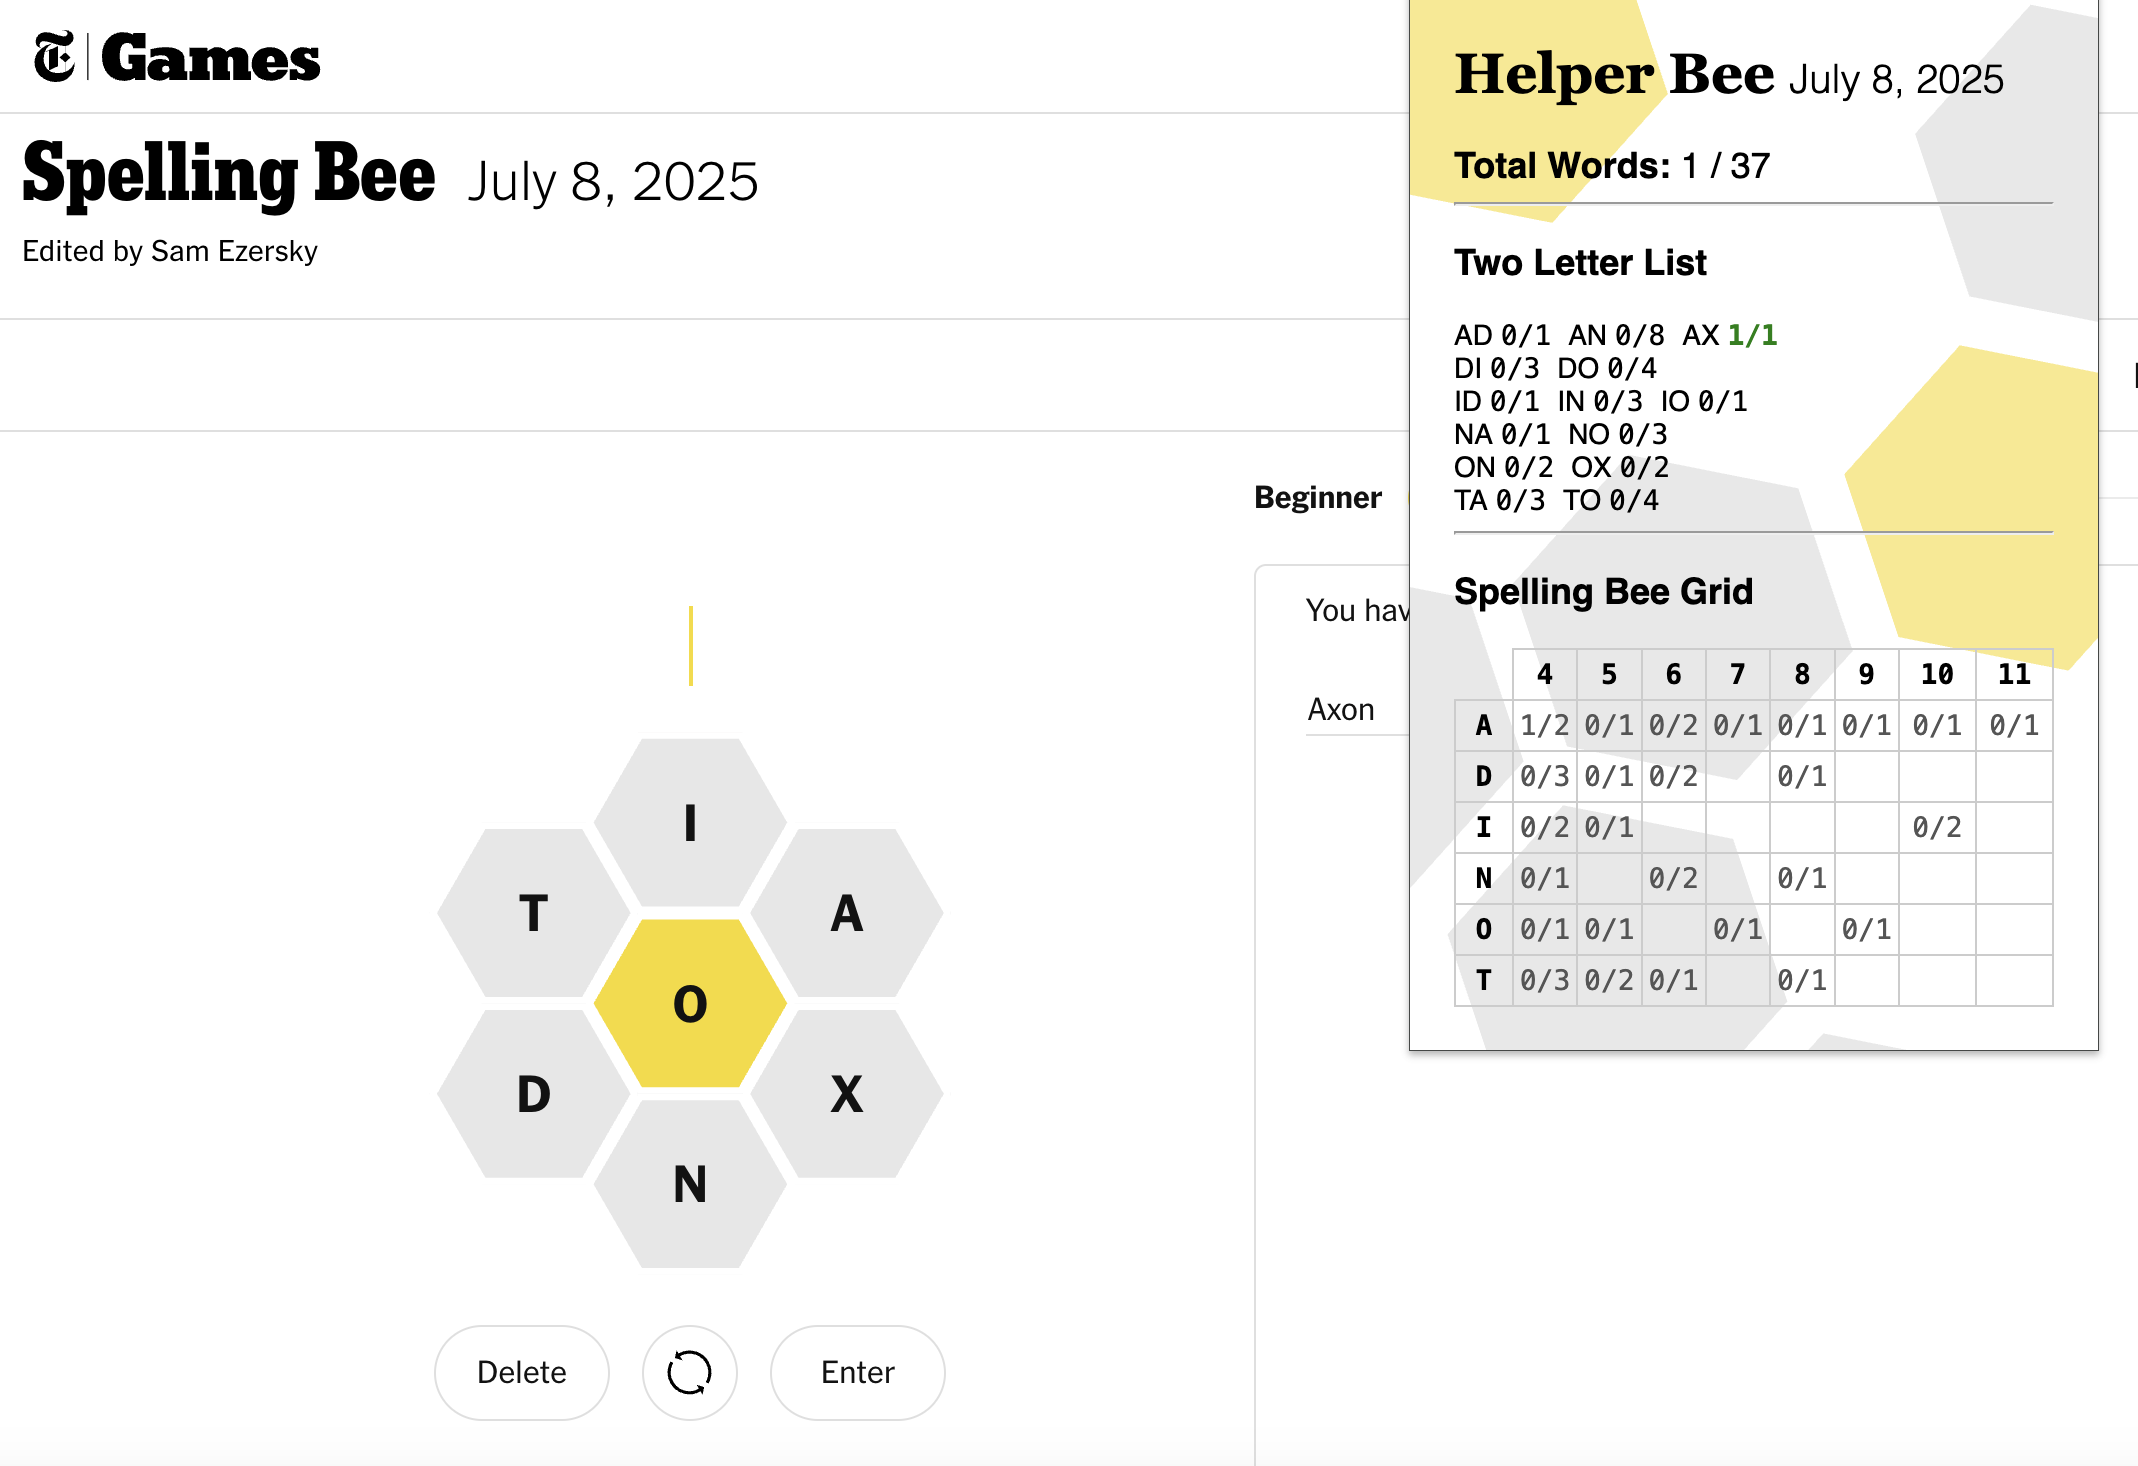
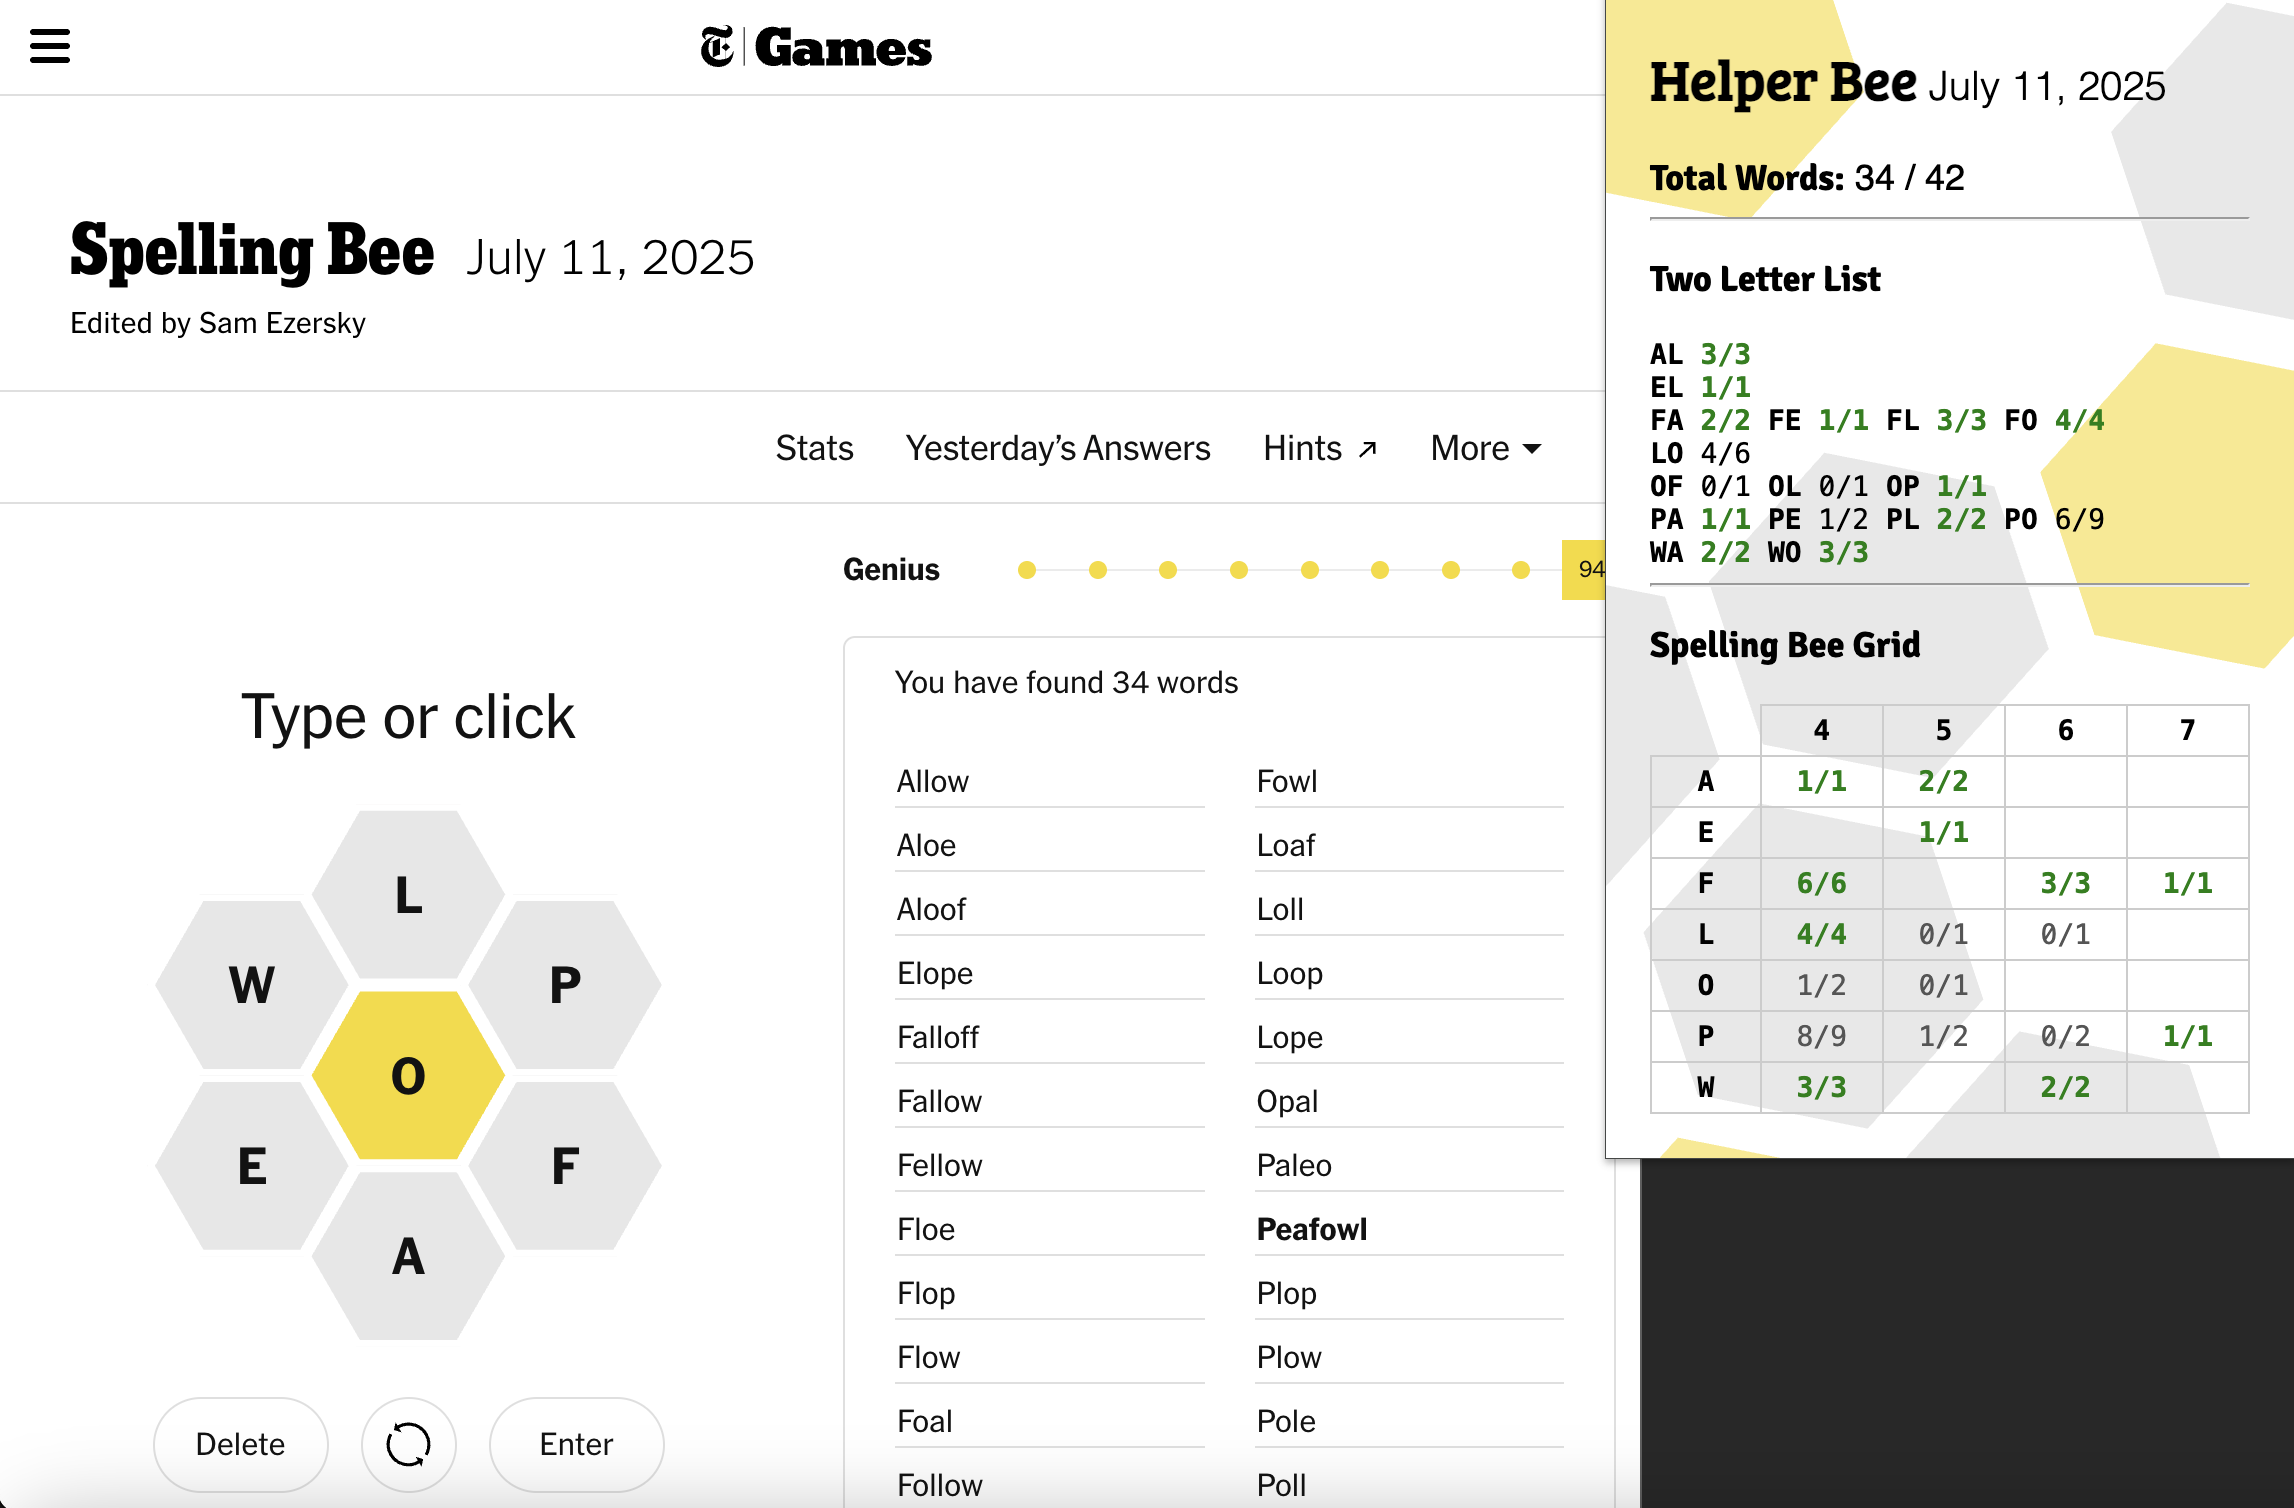
newer ui?

diff --git a/popup.js b/popup.js
@@ -1,9 +1,5 @@
 function parseFormattedDate(dateStr) {
-	//	const dateStr = document.querySelector("span.pz-game-date")?.textContent.trim() ? parseFormattedDate(dateStr) : null;
-
 	const date = new Date(dateStr);
-
-	console.log("Date:", date, dateStr);
 
 	const mm = String(date.getMonth() + 1).padStart(2, '0');
 	const dd = String(date.getDate()).padStart(2, '0');
@@ -12,9 +8,6 @@ function parseFormattedDate(dateStr) {
 }
 
 function renderPrefixProgress(hints, enteredWords, container) {
-	//	const container = document.getElementById("prefixes");
-	//	container.innerHTML = "";
-
 	const twoLetter = document.createElement("div");
 	twoLetter.innerHTML = "<h3>Two Letter List</h3>";
 
@@ -207,8 +200,6 @@ chrome.tabs.query({ active: true, currentWindow: true }, async tabs => {
 
 	const puzzDate = parseFormattedDate(rawDate);
 
-	console.log("puzz date:", puzzDate);
-
 	const { sb_hints } = await getStorage("sb_hints");
 
 	if (!sb_hints || !sb_hints[puzzDate]) {
@@ -220,13 +211,9 @@ chrome.tabs.query({ active: true, currentWindow: true }, async tabs => {
 		const linkToHints = document.createElement("a");
 
 		linkToHints.className = "linktoplay";
-
 		linkToHints.href = `https://www.nytimes.com/${puzzDate}/crosswords/spelling-bee-forum.html`;
-
 		linkToHints.innerText = "Get Official Hints!"
-
 		linkToHints.target = "_blank";
-
 		status.innerHTML = "";
 
 		container.appendChild(linkToHints);

diff --git a/popup.html b/popup.html
@@ -58,7 +58,7 @@
 
     .title {
 	    font-size: 28px;
-	font-family: Georgia;
+	font-family: "Bree Serif", serif;
 	    font-weight: 900;
 	margin-bottom: 20px;
 	margin-top: 5px;
@@ -66,12 +66,12 @@
     }
 
     h3 {
-	font-family: sans-serif;
+	font-family: "Signika", sans-serif;
 	    font-size: 18px;
     }
 
     #totalwords {
-	font-family: sans-serif;
+	font-family: "Signika", sans-serif;
 	    font-weight: bold;
     }
   </style>
@@ -83,6 +83,12 @@
   </div>
 
   <div id="prefixes"></div>
+<link rel="preconnect" href="https://fonts.googleapis.com">
+<link rel="preconnect" href="https://fonts.gstatic.com" crossorigin>
+<link href="https://fonts.googleapis.com/css2?family=Bree+Serif&display=swap" rel="stylesheet">
+<link rel="preconnect" href="https://fonts.googleapis.com">
+<link rel="preconnect" href="https://fonts.gstatic.com" crossorigin>
+<link href="https://fonts.googleapis.com/css2?family=Signika:wght@300..700&display=swap" rel="stylesheet">
   <script src="popup.js"></script>
 </body>
 </html>
